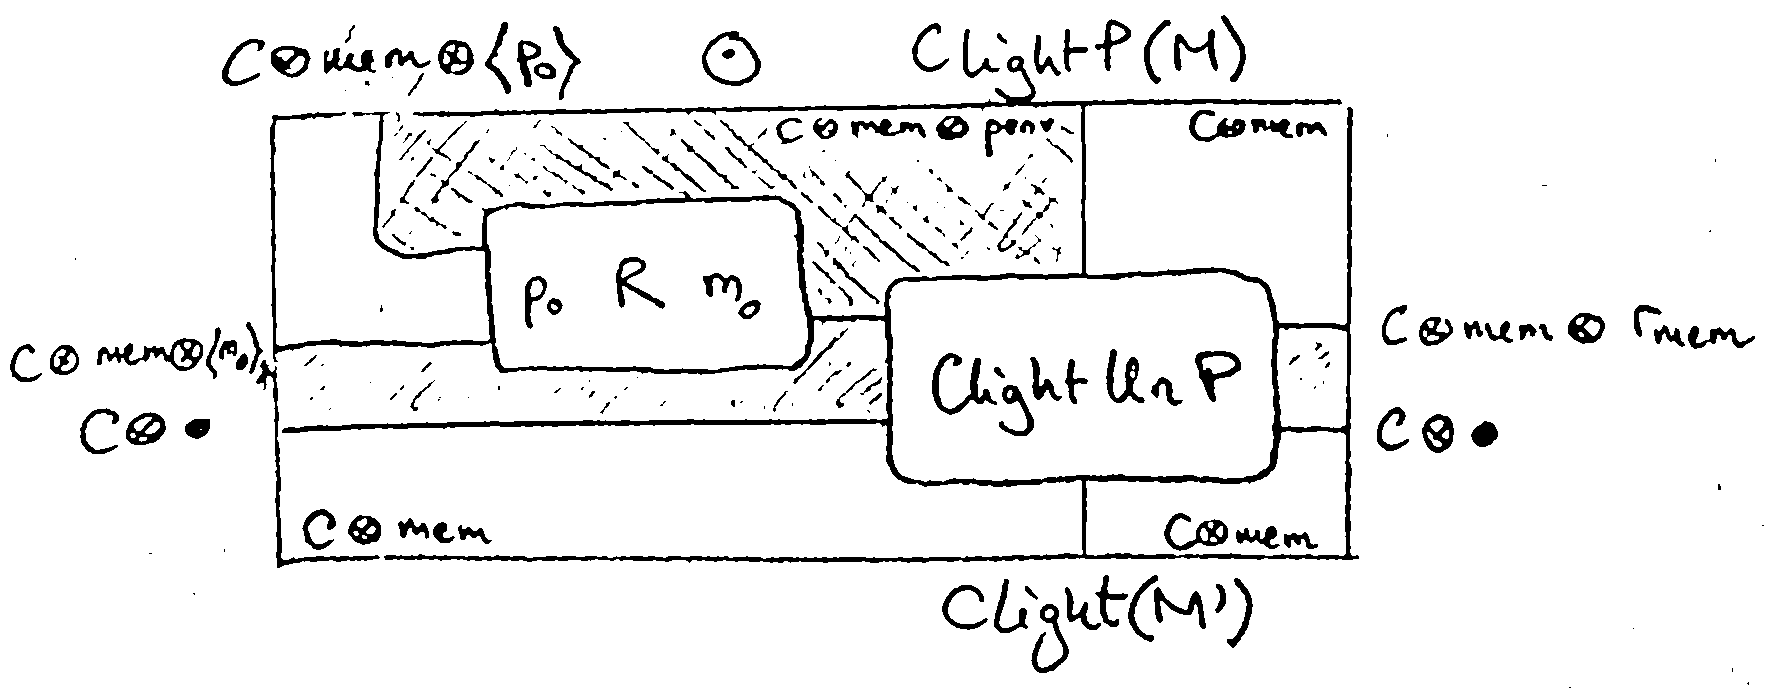
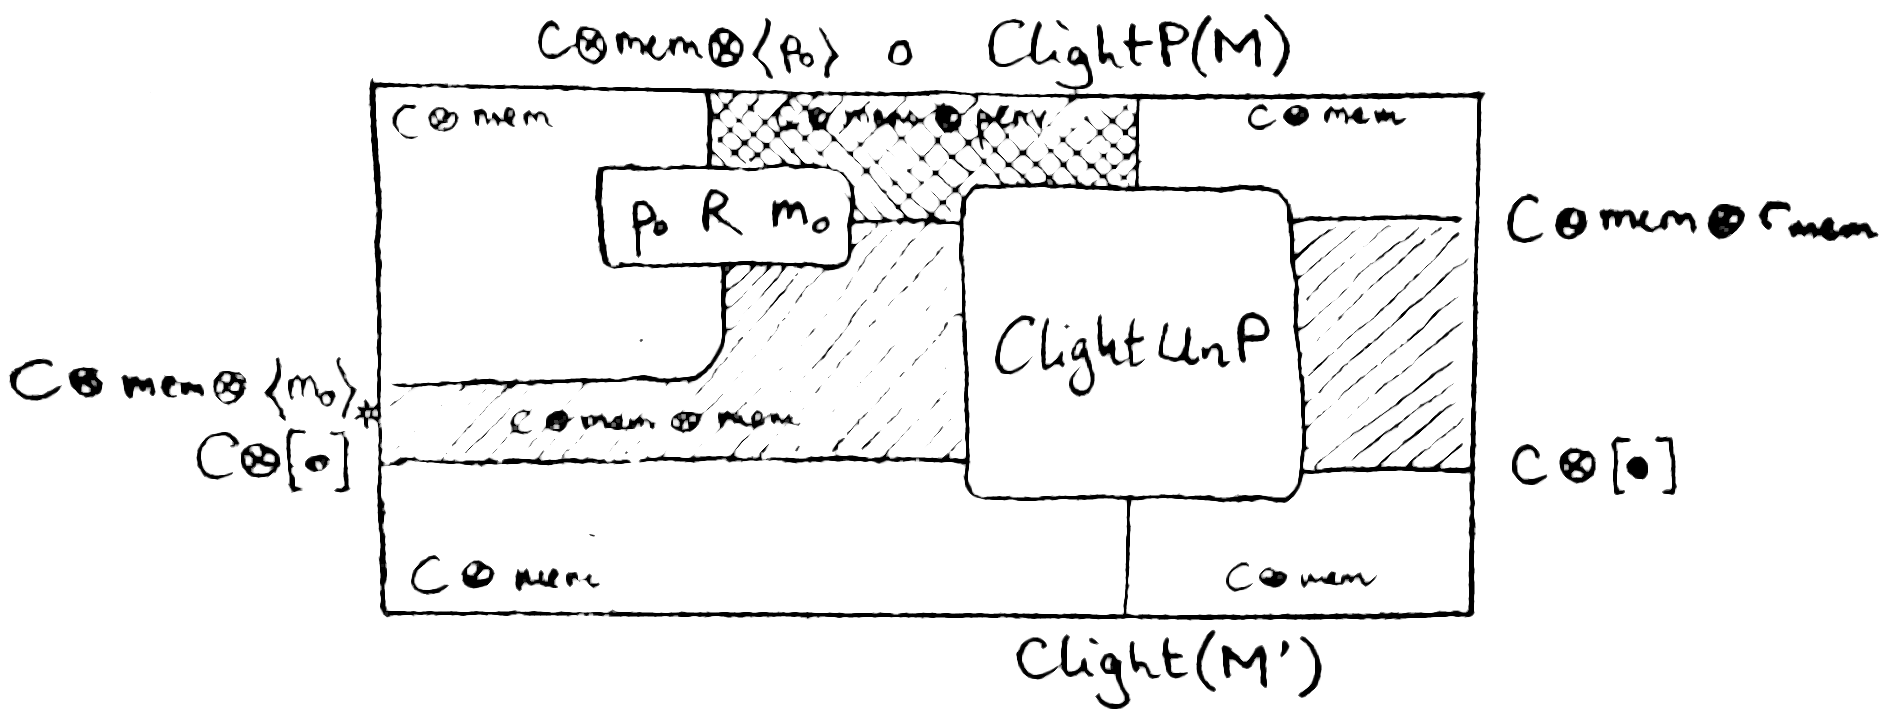
Change relation property for encapsulation

diff --git a/popl23/popl23.tex b/popl23/popl23.tex
@@ -86,14 +86,20 @@ will require the use of compositional methods,
 making it easier to construct certified systems
 from off-the-shelf certified components
 \cite{deepspec}.
-
 In principle,
 compositional semantics
 could play a key role in enabling this.
 But in practice, simpler operational models
 have proven more amenable
 to carrying out actual verification projects.
+
 This paper is concerned with bridging this gap.
+We present a compositional theory for verification
+which incorporates
+\emph{data abstraction},
+\emph{state encapsulation} and
+\emph{certified compilation}.
+
 %In particular,
 %we examine the role of \emph{state encapsulation}
 %in connecting low-level, operational models
@@ -102,6 +108,8 @@ This paper is concerned with bridging this gap.
 %on the other hand.
 
 %}}}
+
+\subsection{Data Abstraction}
 
 \subsection{Verification Frameworks} \label{sec:intro:bigpict} %{{{
 
@@ -2029,9 +2037,9 @@ where different amounts of state have been encapsulated.
 In addition,
 for a relation $R \subseteq U \times V$ such that $u \mathrel{R} v$,
 \[
-  \kw{id}_{[U]}
-  \le_{[R] \rightarrow \langle u \rangle^* \mathbin; \langle v \rangle_*}
-  \kw{id}_{[V]}
+  \langle u \rangle
+  \le_{[R] \rightarrow \epsilon}
+  \langle v \rangle
   \qquad
   \draftfig{0.1}{encap-rel}
   \,.
